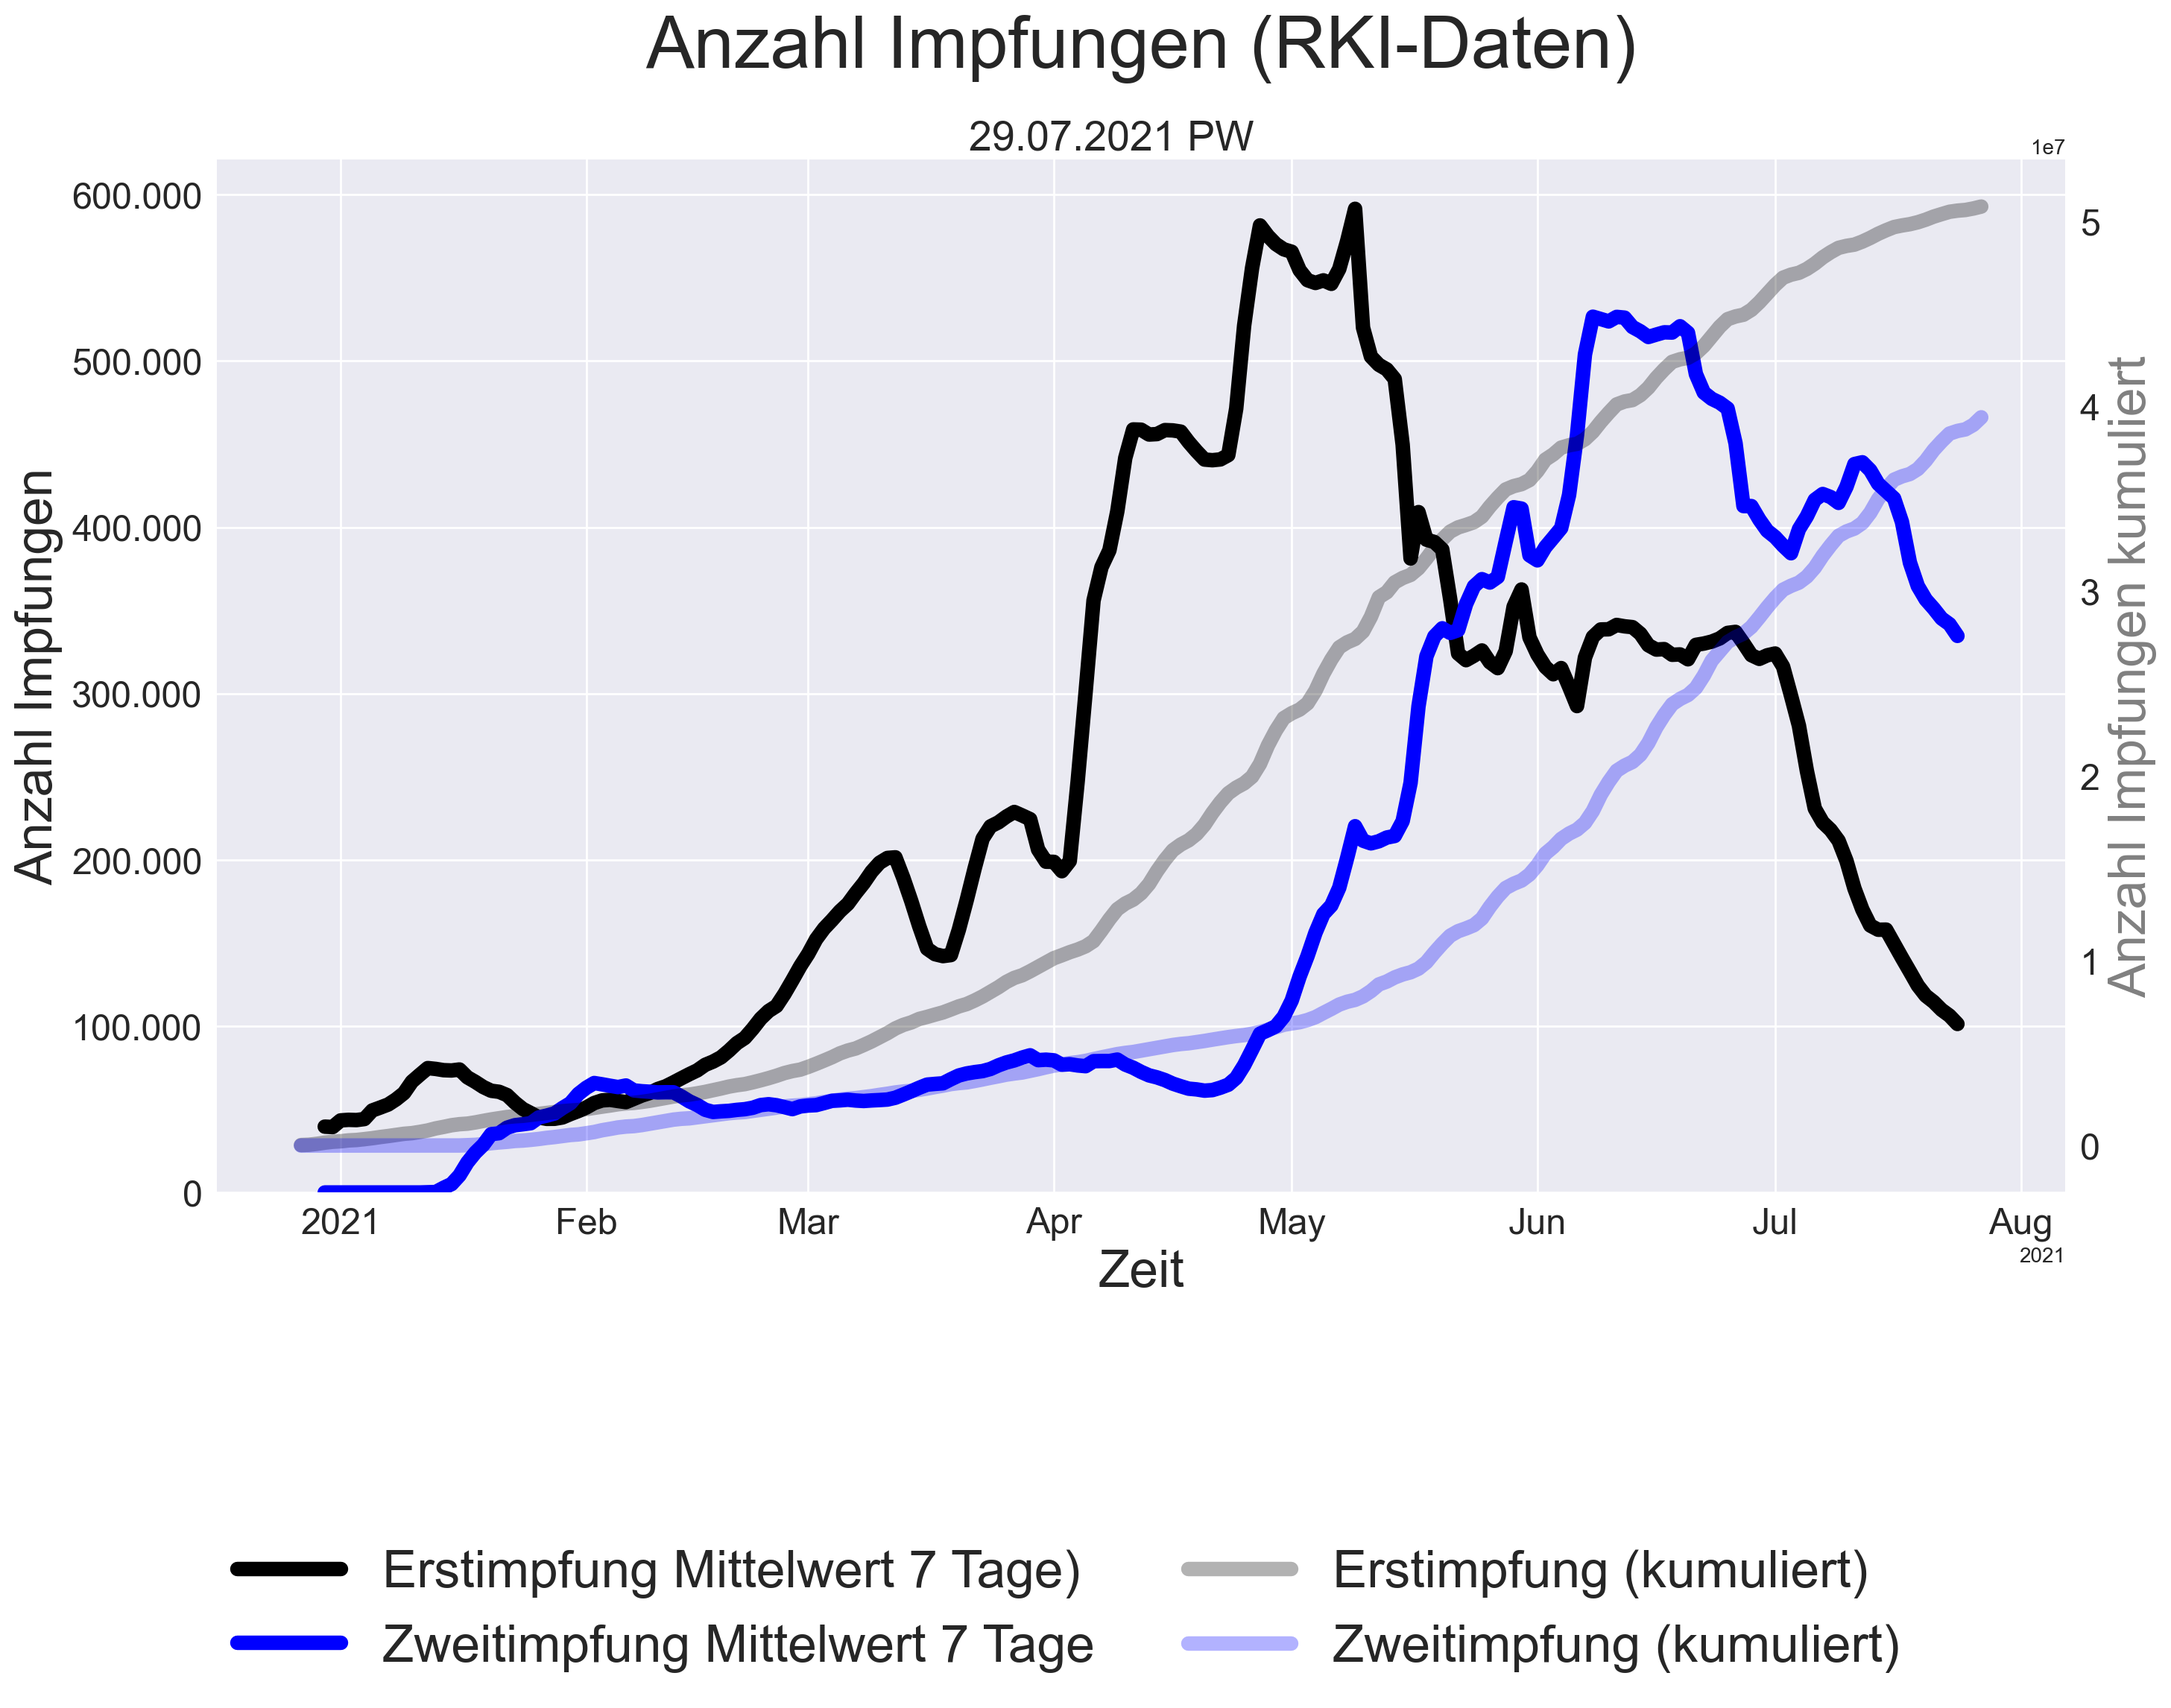
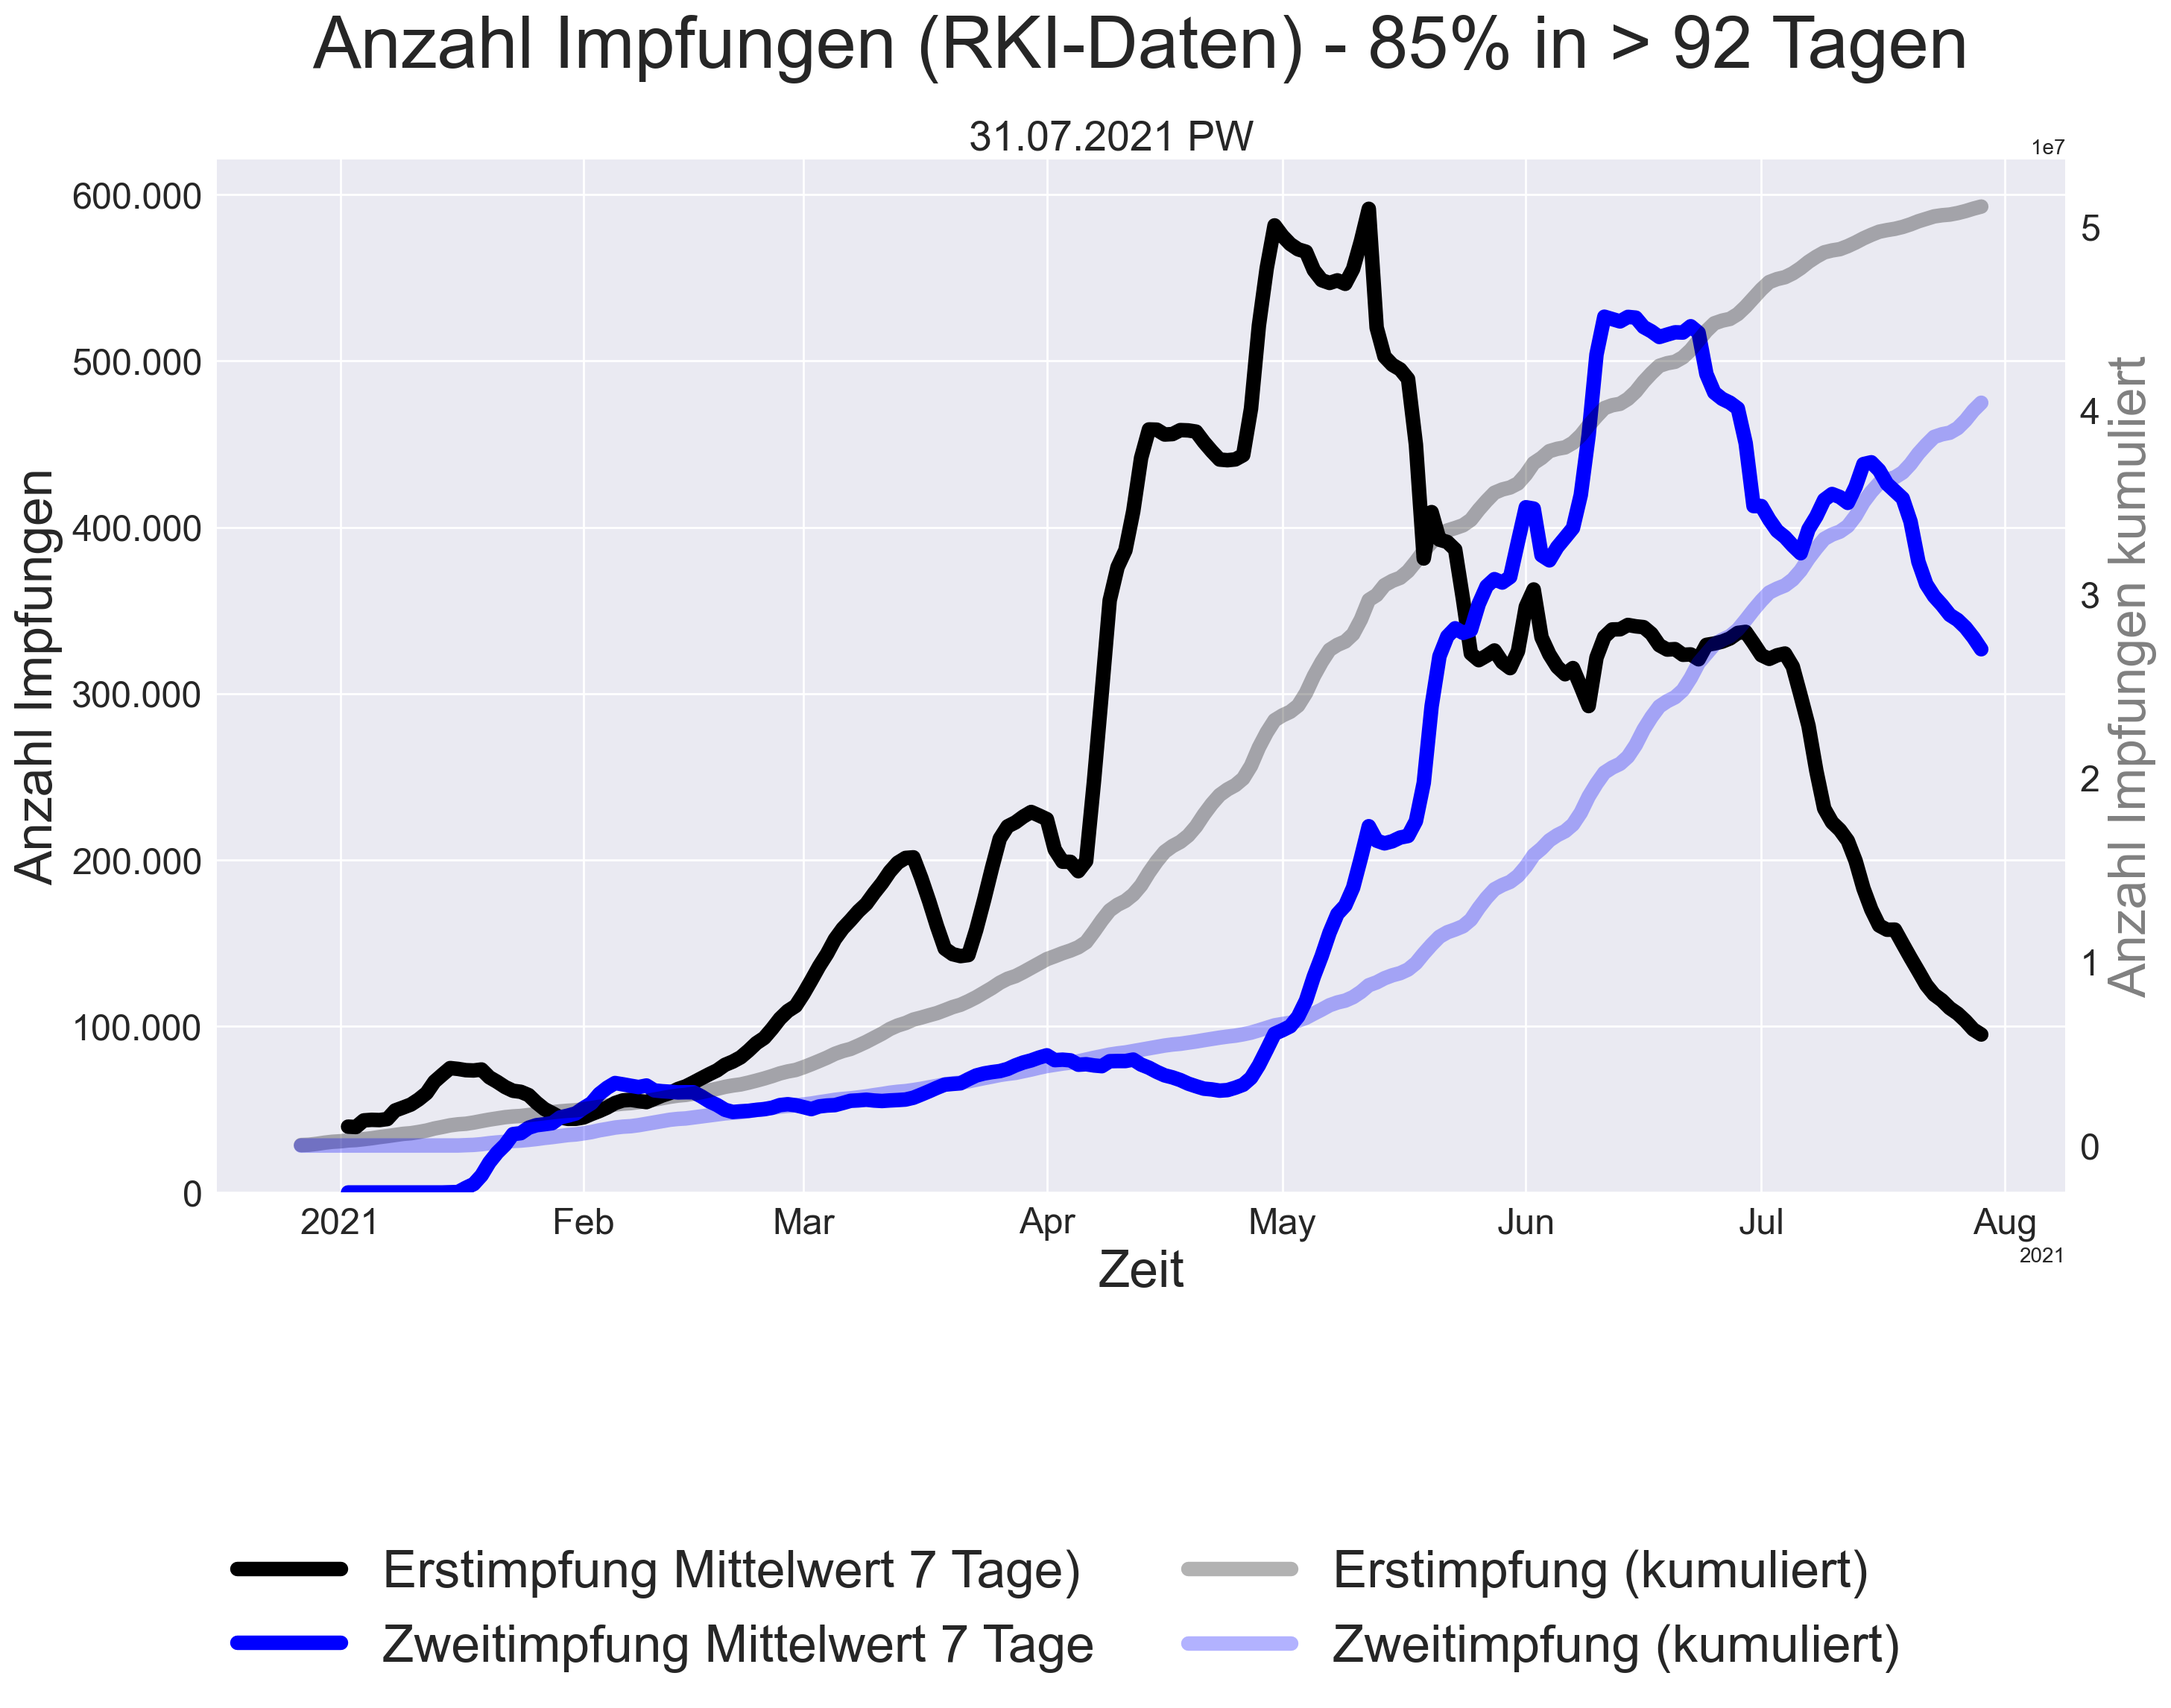
u

diff --git a/04 Impfungen TS.py b/04 Impfungen TS.py
@@ -27,11 +27,24 @@ df = pd.read_csv("D:\\Github\\Auswertung_Covid_19\\input\\Impfungen_Timeseries.c
 
 # Berechnungen
 df['Datum'] = pd.to_datetime(df['Datum'], format='%d.%m.%Y', utc=True)
-df["Erstimpfung_MA"] = df["Erstimpfung"].rolling(window=7, center=True, min_periods=7).mean()
-df["Zweitimpfung_MA"] = df["Zweitimpfung"].rolling(window=7, center=True, min_periods=7).mean()
+df["Erstimpfung_MA"] = df["Erstimpfung"].rolling(window=7, center=False, min_periods=7).mean()
+df["Zweitimpfung_MA"] = df["Zweitimpfung"].rolling(window=7, center=False, min_periods=7).mean()
 df["Erstimpfung_cumsum"] = df["Erstimpfung"].cumsum()
 df["Zweitimpfung_cumsum"] = df["Zweitimpfung"].cumsum()
 
+df.to_csv("df export.csv")
+
+ZweitimpfungenSumme = df["Zweitimpfung_cumsum"].iloc[-1]
+ZweitimpfungenZiel85 = 83_000_000*0.85
+ZweitimpfungenOffen = ZweitimpfungenZiel85 - ZweitimpfungenSumme
+ZweitimpfungenProTag = df["Zweitimpfung_MA"].iloc[-1]
+AnzahlTage85 = int(ZweitimpfungenOffen/ZweitimpfungenProTag)
+
+print(f'ZweitimpfungenSumme = {ZweitimpfungenSumme}')
+print(f'ZweitimpfungenZiel85 = {ZweitimpfungenZiel85}')
+print(f'ZweitimpfungenOffen = {ZweitimpfungenOffen}')
+print(f'ZweitimpfungenProTag = {ZweitimpfungenProTag}')
+print(f'AnzahlTage85 = {AnzahlTage85}')
 
 def y_axis_thousands(x, pos):
     # 'The two args are the value and tick position'
@@ -66,7 +79,11 @@ plt.yticks(fontsize=size * 0.7)
 plt.ylabel('Anzahl Impfungen', fontsize=size)
 plt.xlabel('Zeit', fontsize=size)
 
-plt.title('Anzahl Impfungen (RKI-Daten)\n', fontsize=size + 10)
+if df["Zweitimpfung_MA"].iloc[-7] < df["Zweitimpfung_MA"].iloc[-1]:
+    plt.title(f'Anzahl Impfungen (RKI-Daten) - 85% in < {AnzahlTage85} Tagen\n', fontsize=size + 10)
+else:
+    plt.title(f'Anzahl Impfungen (RKI-Daten) - 85% in > {AnzahlTage85} Tagen\n', fontsize=size + 10)
+
 plt.suptitle(today + ' PW', fontsize=size - 5, y=0.91)
 
 # # fill area between lines
@@ -114,4 +131,4 @@ ax2.tick_params(labelsize=size * 0.7)
 
 plt.savefig("D:\\Github\\Auswertung_Covid_19\\output\\Impfungen TS.png", dpi=dpi, bbox_inches='tight')
 
-plt.show()
+# plt.show()
